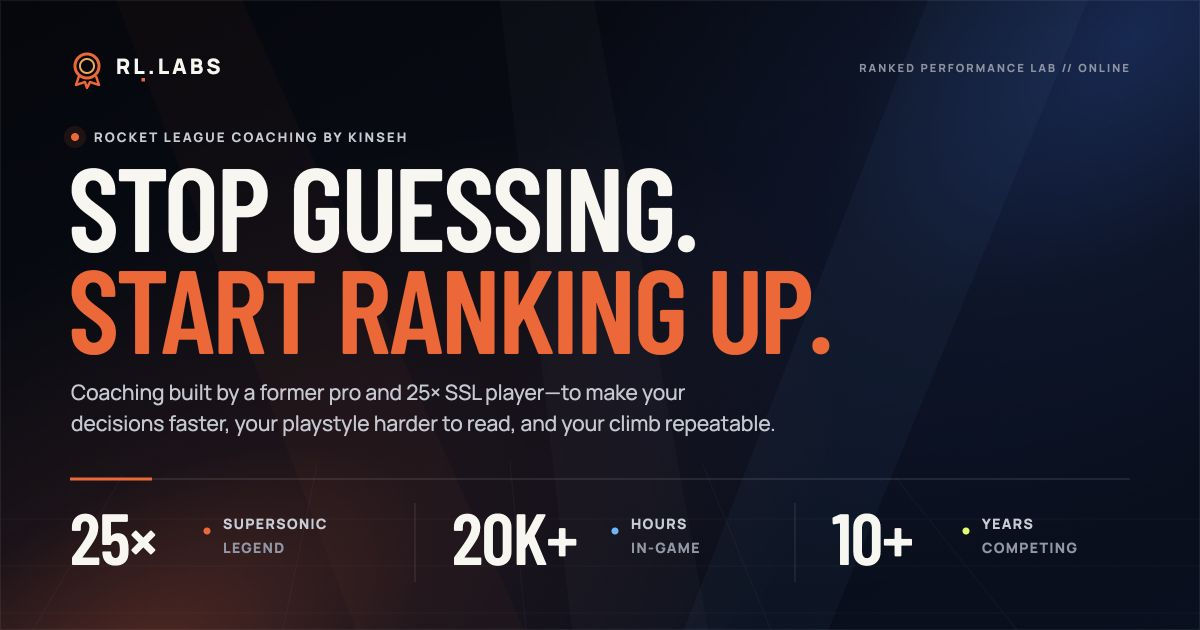
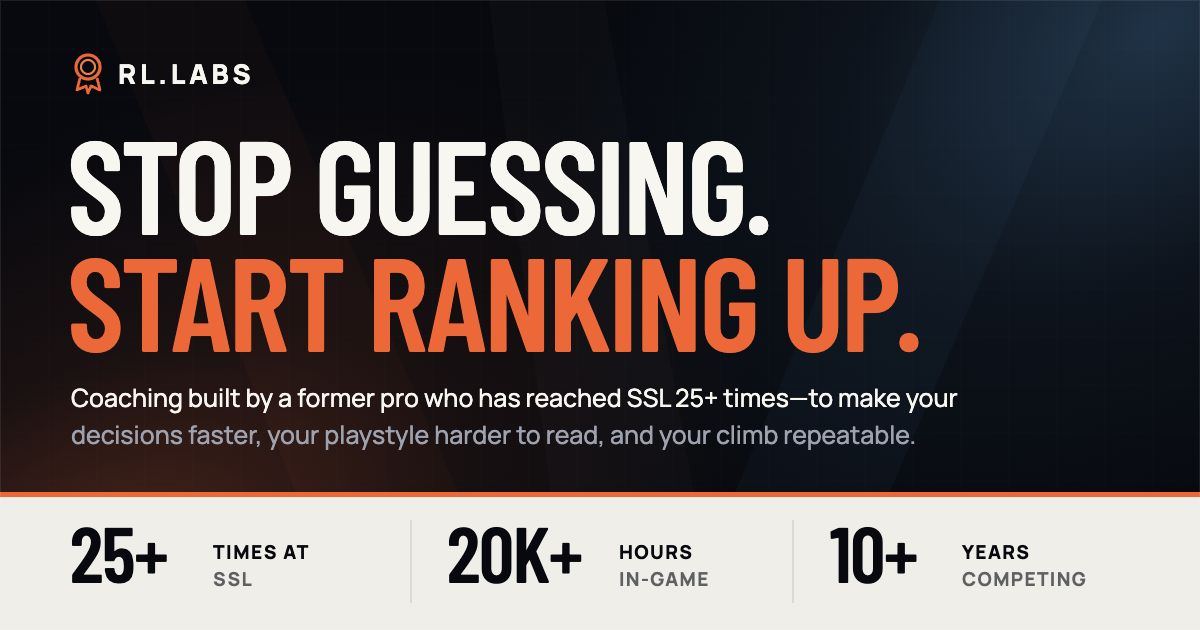
Refine messaging and conversion flow

diff --git a/src/components/sections/Hero.tsx b/src/components/sections/Hero.tsx
@@ -21,18 +21,18 @@ export function Hero() {
           ]}
         />
         <p className="hero-lede">
-          Rocket League coaching built by a former pro and 25× SSL player—to make your decisions faster, your playstyle harder to read, and your climb repeatable.
+          Rocket League coaching built by a former pro who has reached SSL 25+ times—to make your decisions faster, your playstyle harder to read, and your climb repeatable.
         </p>
         <div className="hero-actions">
-          <Button href="#proof" variant="primary">
-            See member results
+          <Button href="#programs" variant="primary">
+            Explore coaching plans
           </Button>
-          <a className="text-link" href="#programs">
-            Explore coaching <span className="play-dot">▶</span>
+          <a className="text-link" href="#testimonials">
+            See member results <span className="play-dot">▶</span>
           </a>
         </div>
         <div className="hero-proof" aria-label="Coach credentials">
-          <div><strong>25×</strong><span>Supersonic Legend</span></div>
+          <div><strong>25+</strong><span>Times at SSL</span></div>
           <div><strong>20K+</strong><span>Hours in-game</span></div>
           <div><strong>10+</strong><span>Years competing</span></div>
         </div>
@@ -51,10 +51,10 @@ export function Hero() {
           </div>
           <div className="rank-brief">
             <div className="brief-rank current-rank">
-              <RankIcon rank={ranks[4]} loading="eager" />
+              <RankIcon rank={ranks[3]} loading="eager" />
               <div>
                 <span className="micro-label">Current read</span>
-                <strong>DIAMOND III</strong>
+                <strong>PLATINUM III</strong>
               </div>
             </div>
             <svg className="promotion-arrow" viewBox="0 0 60 16" aria-hidden="true">

diff --git a/index.html b/index.html
@@ -6,7 +6,7 @@
     <title>RL Labs | Rocket League Coaching by Kinseh</title>
     <meta
       name="description"
-      content="Rocket League coaching by former pro and 25× SSL player Kinseh. Build faster reads, smarter decisions, and a repeatable path to rank up."
+      content="Rocket League coaching by former pro Kinseh, who has reached SSL 25+ times. Build faster reads, smarter decisions, and a repeatable path to rank up."
     />
     <meta name="author" content="Kinseh" />
     <meta name="robots" content="index, follow, max-image-preview:large" />
@@ -18,7 +18,7 @@
     <meta property="og:title" content="RL Labs — Stop Guessing. Start Ranking Up." />
     <meta
       property="og:description"
-      content="Rocket League coaching by former pro and 25× SSL player Kinseh. Build faster reads, smarter decisions, and a repeatable path to rank up."
+      content="Rocket League coaching by former pro Kinseh, who has reached SSL 25+ times. Build faster reads, smarter decisions, and a repeatable path to rank up."
     />
     <meta property="og:type" content="website" />
     <meta property="og:url" content="/" />
@@ -37,7 +37,7 @@
     <meta name="twitter:title" content="RL Labs — Stop Guessing. Start Ranking Up." />
     <meta
       name="twitter:description"
-      content="Rocket League coaching by former pro and 25× SSL player Kinseh. Build faster reads, smarter decisions, and a repeatable path to rank up."
+      content="Rocket League coaching by former pro Kinseh, who has reached SSL 25+ times. Build faster reads, smarter decisions, and a repeatable path to rank up."
     />
     <meta name="twitter:image" content="/opengraph-image.png" />
     <meta
@@ -51,7 +51,7 @@
         "@type": "WebSite",
         "name": "RL Labs",
         "url": "/",
-        "description": "Rocket League coaching by former pro and 25× SSL player Kinseh.",
+        "description": "Rocket League coaching by former pro Kinseh, who has reached SSL 25+ times.",
         "publisher": {
           "@type": "Organization",
           "name": "RL Labs",

diff --git a/src/components/sections/CoachSection.tsx b/src/components/sections/CoachSection.tsx
@@ -25,15 +25,15 @@ export function CoachSection() {
           <KineticTitle
             lines={[
               { text: "Former pro." },
-              { text: "25× SSL.", accent: true },
+              { text: "25+ TIMES AT SSL.", accent: true },
             ]}
           />
           <p className="coach-lede">
-            Kinseh built his game at the highest level through positioning, reads, and game sense—not a highlight-reel dependency. That is exactly what makes the system teachable.
+            Kinseh built his game at the highest level through positioning, reads, and game sense. That is exactly what makes the system teachable.
           </p>
           <div className="coach-principle">
             <span>KINSEH // COACHING PRINCIPLE</span>
-            <strong>A mechanical fix wins one moment. A better read wins the next hundred.</strong>
+            <strong>The right decision means nothing without the mechanics to execute it, and mechanics mean nothing without the judgment to use them.</strong>
           </div>
           <div className="coach-stats">
             <div><strong>0.001%</strong><span>Competed with the top tier of players globally</span></div>

diff --git a/api/elite-availability.ts b/api/elite-availability.ts
@@ -105,6 +105,11 @@ export async function handleEliteAvailability(
     }
 
     const available = plan.stock;
+    if (available === null) {
+      sendJson(request, response, 502, { error: "whop_stock_not_visible" });
+      return;
+    }
+
     if (typeof available !== "number" || !Number.isInteger(available) || available < 0) {
       sendJson(request, response, 502, { error: "invalid_whop_stock" });
       return;

diff --git a/src/components/sections/CoachSection.css b/src/components/sections/CoachSection.css
@@ -67,7 +67,7 @@
 }
 
 .coach-monogram > span::after {
-  content: "25× SSL";
+  content: "25+ TIMES AT SSL";
   position: absolute;
   top: calc(100% + 12px);
   right: 2px;

diff --git a/src/components/sections/ProofSection.tsx b/src/components/sections/ProofSection.tsx
@@ -196,7 +196,7 @@ export function ProofSection() {
 
       </div>
 
-      <div className="review-section-head" data-reveal>
+      <div className="review-section-head" id="testimonials" data-reveal>
         <div>
           <span>MEMBER REVIEWS / WHOP + DISCORD</span>
           <h3>What members are saying.</h3>

diff --git a/src/components/sections/ProofSection.css b/src/components/sections/ProofSection.css
@@ -374,6 +374,7 @@
 }
 
 .review-section-head {
+  scroll-margin-top: 96px;
   display: flex;
   align-items: end;
   justify-content: space-between;

diff --git a/README.md b/README.md
@@ -20,7 +20,7 @@ npm run preview
 
 Copy `.env.example` to `.env` and supply the live destinations for the free community, Premium checkout, Elite application, coach profile, RL Tracker profile, and verified review page. The current conversion-link fallbacks point to the RL Labs Whop storefront.
 
-Elite availability is read from Whop through the same-origin `/api/elite-availability` server function. Set `WHOP_API_KEY` to a company API key with `plan:basic:read` permission and set `WHOP_ELITE_PLAN_ID` to the Elite plan ID. Both variables are server-only and must not use the `VITE_` prefix. The endpoint returns a finite Whop stock count when one is configured, reports unlimited enrollment without inventing a count, and briefly caches successful responses. Until Whop responds successfully, the page uses the manually maintained fallback in `ProgramsSection.tsx`. The function uses Vercel's conventional `api/` directory and is also mounted by the Vite dev server for local development. Use `VITE_ELITE_STOCK_ENDPOINT` only when the production function lives at a different URL.
+Elite availability is read from Whop through the same-origin `/api/elite-availability` server function. Set `WHOP_API_KEY` to an Account API key created for the Rocket League Labs business with `plan:basic:read` permission, and set `WHOP_ELITE_PLAN_ID` to the Elite plan ID. Both variables are server-only and must not use the `VITE_` prefix. The endpoint returns a finite Whop stock count when one is configured, reports unlimited enrollment without inventing a count, and briefly caches successful responses. Until Whop responds successfully, the page uses the manually maintained fallback in `ProgramsSection.tsx`. The function uses Vercel's conventional `api/` directory and is also mounted by the Vite dev server for local development. Use `VITE_ELITE_STOCK_ENDPOINT` only when the production function lives at a different URL.
 
 `VITE_PREMIUM_VIDEO_URL` and `VITE_ELITE_VIDEO_URL` accept YouTube, Vimeo, or direct MP4/WebM sources. The program player is mounted only after a visitor clicks a thumbnail, keeping video work out of the initial page load.
 